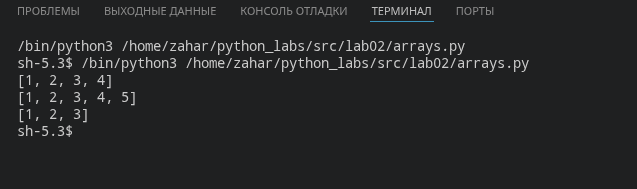
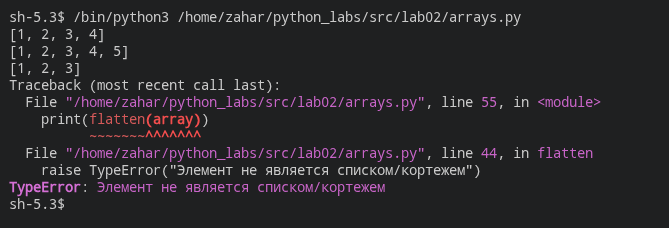
cancer

Changed region(s): [[0.0, 0.1323, 0.8948, 0.9259], [0.0, 0.0265, 0.7755, 0.1323]]

diff --git a/src/lab02/arrays.py b/src/lab02/arrays.py
@@ -48,7 +48,7 @@ test_array_3 = [
     [[1, 2], [3, 4]],
     [[1, 2], (3, 4, 5)],
     [[1], [], [2, 3]],
-    #[[1, 2], "ab"]
+    [[1, 2], "ab"]
 ]
 
 for array in test_array_3:

diff --git a/src/lab02/README.md b/src/lab02/README.md
@@ -93,7 +93,7 @@ test_array_3 = [
     [[1, 2], [3, 4]],
     [[1, 2], (3, 4, 5)],
     [[1], [], [2, 3]],
-    #[[1, 2], "ab"]
+    [[1, 2], "ab"]
 ]
 ```
 
